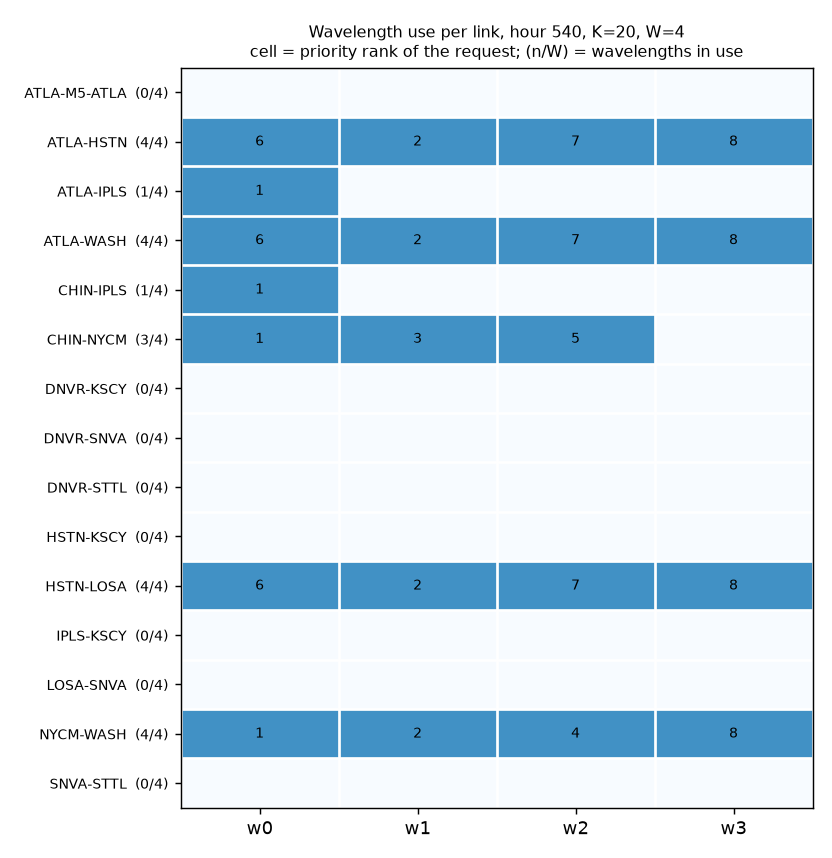
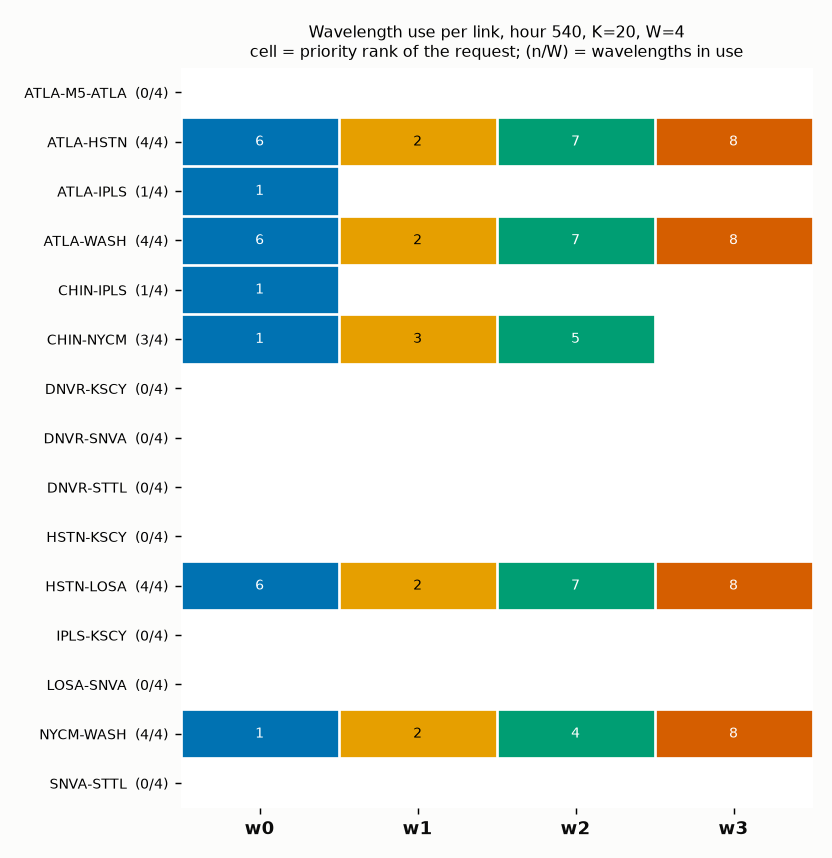
Address PR #9 review: readable wavelength lanes, Okabe-Ito palette, paired-difference row in plot (d), legend position, common_eval styling

Changed region(s): [[0.2188, 0.0909, 1.0, 0.9394], [0.2188, 0.9394, 0.9688, 0.9697], [0.2188, 0.0606, 0.9688, 0.0909]]

diff --git a/src/eval/plots.py b/src/eval/plots.py
@@ -7,12 +7,25 @@ import matplotlib
 matplotlib.use("Agg")
 import matplotlib.pyplot as plt
 
+from eval.common_eval import style, new_fig, INK
+
+# Okabe-Ito: colour-blind-safe, 8 distinguishable colours (fits W = 8); tab20 beyond that
+OKABE_ITO = ["#0072B2", "#E69F00", "#009E73", "#D55E00", "#CC79A7", "#56B4E9", "#F0E442", "#222222"]
+NN_COLOR, LH_COLOR = "#2a78d6", "#9b9a96"
+
 SHORT = lambda n: n.replace("ng", "").replace("M5", "-M5")      # ATLAng -> ATLA, ATLAM5 -> ATLA-M5
 
 
 def _colors(W: int):
-    cmap = plt.get_cmap("tab10" if W <= 10 else "tab20")
+    if W <= len(OKABE_ITO):
+        return OKABE_ITO[:W]
+    cmap = plt.get_cmap("tab20")
     return [cmap(i % cmap.N) for i in range(W)]
+
+
+def _text_color(hex_or_rgba) -> str:
+    r, g, b = matplotlib.colors.to_rgb(hex_or_rgba)
+    return "black" if 0.299 * r + 0.587 * g + 0.114 * b > 0.55 else "white"
 
 
 def _xy(nodes: dict, n: str, lat0: float = 38.0):
@@ -25,26 +38,29 @@ def plot_topology(result, nodes: dict, links: dict, path: str, title: str = "") 
     share a link have different wavelengths, so each wavelength gets its own small lateral offset."""
     W = result.W
     cols = _colors(W)
-    fig, ax = plt.subplots(figsize=(11, 6.2))
+    fig, ax = new_fig(figsize=(12, 6.6))
     for (u, v) in links:
         (x1, y1), (x2, y2) = _xy(nodes, u), _xy(nodes, v)
-        ax.plot([x1, x2], [y1, y2], color="#cccccc", lw=5, solid_capstyle="round", zorder=1)
-    delta = 0.20
+        ax.plot([x1, x2], [y1, y2], color="#dcdcd8", lw=2.5, solid_capstyle="round", zorder=1)
+    step = 0.17                      # lateral distance between neighbouring wavelengths (about 3 line widths)
     for lp in result.lightpaths:
-        off = (lp["wavelength"] - (W - 1) / 2) * delta / max(W - 1, 1) * 2
+        off = (lp["wavelength"] - (W - 1) / 2) * step
+        pts = []
         for a, b in zip(lp["route"], lp["route"][1:]):
-            (x1, y1), (x2, y2) = _xy(nodes, a), _xy(nodes, b)
-            dx, dy = x2 - x1, y2 - y1
-            norm = math.hypot(dx, dy) or 1.0
-            px, py = -dy / norm * off, dx / norm * off
-            ax.plot([x1 + px, x2 + px], [y1 + py, y2 + py], color=cols[lp["wavelength"]], lw=1.6, zorder=2,
-                    alpha=0.95)
+            u, v = sorted((a, b))                          # canonical link direction: a wavelength keeps the same
+            (ux, uy), (vx, vy) = _xy(nodes, u), _xy(nodes, v)   # side of a link whichever way the route travels
+            norm = math.hypot(vx - ux, vy - uy) or 1.0
+            ox, oy = -(vy - uy) / norm * off, (vx - ux) / norm * off
+            (ax_, ay_), (bx_, by_) = _xy(nodes, a), _xy(nodes, b)
+            pts += [(ax_ + ox, ay_ + oy), (bx_ + ox, by_ + oy)]   # consecutive segments are joined by a short jog
+        ax.plot([q[0] for q in pts], [q[1] for q in pts], color=cols[lp["wavelength"]], lw=1.3, zorder=2,
+                solid_joinstyle="round")
     for n in nodes:
         x, y = _xy(nodes, n)
         ax.scatter([x], [y], s=70, color="white", edgecolor="black", zorder=3)
         ax.annotate(SHORT(n), (x, y), textcoords="offset points", xytext=(6, 6), fontsize=8, zorder=4)
     handles = [plt.Line2D([0], [0], color=cols[w], lw=3, label=f"wavelength {w}") for w in range(W)]
-    ax.legend(handles=handles, loc="lower left", fontsize=8, ncol=2, title="served routes")
+    ax.legend(handles=handles, loc="lower left", fontsize=8, ncol=2, title="served routes", frameon=False)
     served, blocked = len(result.assignments), len(result.blocked)
     ax.set_title(title or f"Abilene lightpaths, hour {result.hour}: K={result.K}, W={W}, "
                           f"{served} served, {blocked} blocked ({result.method})")
@@ -64,41 +80,70 @@ def plot_heatmap(result, links: dict, path: str, title: str = "") -> str:
     rank = {r.id: i + 1 for i, r in enumerate(result.requests)}          # 1 = highest predicted demand
     grid = np.zeros((len(link_ids), W), dtype=int)
     for lp in result.lightpaths:
-        route = result.routes_by_request[lp["id"]]
-        # recover the links of the chosen route from the node sequence
+        # the links of the chosen route come from its node sequence
         for a, b in zip(lp["route"], lp["route"][1:]):
             i = row[tuple(sorted((a, b)))]
             assert grid[i, lp["wavelength"]] == 0, "wavelength clash on a link"
             grid[i, lp["wavelength"]] = rank[lp["id"]]
-    fig, ax = plt.subplots(figsize=(max(6.4, 1.6 + 0.9 * W), 0.9 + 0.38 * len(link_ids)))
-    ax.imshow(grid > 0, cmap="Blues", vmin=0, vmax=1.6, aspect="auto")
+    fig, ax = new_fig(figsize=(max(6.4, 1.6 + 0.9 * W), 0.9 + 0.38 * len(link_ids)))
+    cols = _colors(W)
+    rgb = np.ones((len(link_ids), W, 3))
     for i in range(grid.shape[0]):
         for j in range(W):
             if grid[i, j]:
-                ax.text(j, i, str(grid[i, j]), ha="center", va="center", fontsize=8)
+                rgb[i, j] = matplotlib.colors.to_rgb(cols[j])
+    ax.imshow(rgb, aspect="auto")                       # same colour per wavelength as the topology plot
+    for i in range(grid.shape[0]):
+        for j in range(W):
+            if grid[i, j]:
+                ax.text(j, i, str(grid[i, j]), ha="center", va="center", fontsize=8, color=_text_color(cols[j]))
     ax.set_xticks(range(W)); ax.set_xticklabels([f"w{j}" for j in range(W)])
+    for j, lab in enumerate(ax.get_xticklabels()):
+        lab.set_color(INK); lab.set_fontweight("bold")
     ax.set_yticks(range(len(link_ids)))
     ax.set_yticklabels([f"{SHORT(a)}-{SHORT(b)}  ({(grid[i] > 0).sum()}/{W})" for i, (a, b) in enumerate(link_ids)],
                        fontsize=8)
     ax.set_xticks(np.arange(-.5, W, 1), minor=True); ax.set_yticks(np.arange(-.5, len(link_ids), 1), minor=True)
     ax.grid(which="minor", color="white", lw=1.5); ax.tick_params(which="minor", length=0)
+    for s in ax.spines.values():
+        s.set_visible(False)
     ax.set_title(title or f"Wavelength use per link, hour {result.hour}, K={result.K}, W={W}\n"
                          "cell = priority rank of the request; (n/W) = wavelengths in use", fontsize=9)
     fig.tight_layout(); fig.savefig(path, dpi=130); plt.close(fig)
     return path
 
 
+METRICS = [("served_share", "served share"), ("blocking_rate", "blocking rate"), ("topk_hit_rate", "top-K hit rate")]
+
+
+def paired_differences(rows: list) -> dict:
+    """Per-hour paired difference NN minus last-hour for each metric: {metric: (mean, SE, n_hours)}.
+    With several NN seeds the per-hour difference is first averaged over the seeds; SE is over hours."""
+    out = {}
+    hours = sorted({r["hour"] for r in rows})
+    seeds = sorted({r["seed"] for r in rows if r["source"] == "nn"})
+    for key, _ in METRICS:
+        lh = {r["hour"]: r[key] for r in rows if r["source"] == "last_hour"}
+        nn = {(r["seed"], r["hour"]): r[key] for r in rows if r["source"] == "nn"}
+        d = np.array([np.mean([nn[(s, h)] for s in seeds]) - lh[h] for h in hours])
+        se = float(d.std(ddof=1) / math.sqrt(len(d))) if len(d) > 1 else 0.0
+        out[key] = (float(d.mean()), se, len(d))
+    return out
+
+
 def plot_nn_effect(data: dict, path: str) -> str:
-    """Bar chart NN vs last-hour baseline inside the planner, one panel per (K, W) setting in `data`
-    (written by eval.nn_effect). Error bars: std over seed means if >= 2 seeds, else standard error over hours."""
+    """Top row: NN vs last-hour inside the planner (one panel per (K, W) setting in `data`, written by
+    eval.nn_effect); error bars: std over seed means if >= 2 seeds, else standard error over hours.
+    Bottom row: paired per-hour difference NN minus last-hour with +-1 SE over hours (the more informative view)."""
     settings = data["settings"]
-    metrics = [("served_share", "served share"), ("blocking_rate", "blocking rate"), ("topk_hit_rate", "top-K hit rate")]
-    fig, axes = plt.subplots(1, len(settings), figsize=(4.6 * len(settings), 4), squeeze=False)
-    for ax, st in zip(axes[0], settings):
+    n = len(settings)
+    fig, axes = new_fig(2, n, figsize=(4.8 * n, 7.4), squeeze=False)
+    for col, st in enumerate(settings):
+        ax, ax2 = axes[0][col], axes[1][col]
         rows = [r for r in data["runs"] if r["K"] == st["K"] and r["W"] == st["W"]]
-        for k, (src, label, color) in enumerate((("nn", "NN forecast", "#2b6cb0"), ("last_hour", "last-hour", "#a0aec0"))):
+        for k, (src, label, color) in enumerate((("nn", "NN forecast", NN_COLOR), ("last_hour", "last-hour", LH_COLOR))):
             means, errs = [], []
-            for key, _ in metrics:
+            for key, _ in METRICS:
                 sel = [r for r in rows if r["source"] == src]
                 seeds = sorted({r["seed"] for r in sel})
                 per_seed = [np.mean([r[key] for r in sel if r["seed"] == s]) for s in seeds]
@@ -107,15 +152,27 @@ def plot_nn_effect(data: dict, path: str) -> str:
                     errs.append(float(np.std(per_seed, ddof=1)))
                 else:
                     vals = np.array([r[key] for r in sel]); errs.append(float(vals.std(ddof=1) / math.sqrt(len(vals))))
-            x = np.arange(len(metrics)) + (k - 0.5) * 0.36
-            ax.bar(x, means, 0.34, yerr=errs, capsize=3, label=label, color=color)
+            x = np.arange(len(METRICS)) + (k - 0.5) * 0.36
+            ax.bar(x, means, 0.34, yerr=errs, capsize=3, label=label, color=color, ecolor=INK)
             for xi, m in zip(x, means):
-                ax.text(xi, m + 0.01, f"{m:.2f}", ha="center", fontsize=7)
-        ax.set_xticks(range(len(metrics))); ax.set_xticklabels([m[1] for m in metrics], fontsize=8)
-        ax.set_ylim(0, 1.08); ax.set_title(f"K={st['K']}, W={st['W']}  ({st['n_hours']} test hours, {st['n_seeds']} NN seed(s))", fontsize=9)
-        ax.legend(fontsize=8, loc="lower right")
-    err_note = "error bars: std over NN seeds" if min(s["n_seeds"] for s in settings) >= 2 else "error bars: s.e. over test hours (1 seed)"
-    fig.suptitle(f"Planner with NN forecast vs last-hour forecast ({err_note})", fontsize=10)
+                ax.text(xi, m + 0.03, f"{m:.2f}", ha="center", fontsize=7, color=INK)
+        ax.set_xticks(range(len(METRICS))); ax.set_xticklabels([m[1] for m in METRICS], fontsize=8)
+        ax.set_ylim(0, 1.3)
+        style(ax, ylabel="fraction", title=f"K={st['K']}, W={st['W']} ({st['n_hours']} test hours, {st['n_seeds']} NN seed(s))")
+        ax.legend(fontsize=8, loc="upper center", ncol=2, frameon=False)
+        pd = paired_differences(rows)
+        vals = [pd[k][0] for k, _ in METRICS]; ses = [pd[k][1] for k, _ in METRICS]
+        ax2.bar(range(len(METRICS)), vals, 0.5, yerr=ses, capsize=4, color=NN_COLOR, ecolor=INK)
+        ax2.axhline(0, color=INK, lw=0.8)
+        for i, (v, s) in enumerate(zip(vals, ses)):
+            ax2.text(i, v + (s + 0.0006 if v >= 0 else -s - 0.0006), f"{v:+.4f}\n±{s:.4f}", ha="center",
+                     va="bottom" if v >= 0 else "top", fontsize=7, color=INK)
+        lim = max(0.012, 1.8 * max(abs(v) + s for v, s in zip(vals, ses)))
+        ax2.set_ylim(-lim, lim)
+        ax2.set_xticks(range(len(METRICS))); ax2.set_xticklabels([m[1] for m in METRICS], fontsize=8)
+        style(ax2, ylabel="NN minus last-hour", title="paired difference per hour (±1 s.e.)")
+    err_note = "top error bars: std over NN seeds" if min(s["n_seeds"] for s in settings) >= 2 else "top error bars: s.e. over test hours (1 seed)"
+    fig.suptitle(f"Planner with NN forecast vs last-hour forecast ({err_note})", fontsize=10, color=INK)
     fig.tight_layout(); fig.savefig(path, dpi=130); plt.close(fig)
     return path
 

diff --git a/src/tests/test_demo.py b/src/tests/test_demo.py
@@ -136,3 +136,20 @@ def test_nn_effect_harness_small_run():
     assert len(rows) == 4 and {r["source"] for r in rows} == {"nn", "last_hour"}
     for r in rows:
         assert 0 <= r["served_share"] <= 1 and 0 <= r["blocking_rate"] <= 1 and 0 <= r["topk_hit_rate"] <= 1
+
+
+def test_paired_differences_hand_computed():
+    rows = []
+    for h, (nn, lh) in enumerate([(0.9, 0.8), (0.7, 0.8), (0.8, 0.6)]):          # per-hour served share
+        rows.append({"source": "last_hour", "seed": -1, "hour": h, "served_share": lh, "blocking_rate": 0.0, "topk_hit_rate": 1.0})
+        for s in (0, 1):
+            rows.append({"source": "nn", "seed": s, "hour": h, "served_share": nn, "blocking_rate": 0.0, "topk_hit_rate": 1.0})
+    pd = plots.paired_differences(rows)
+    diffs = np.array([0.1, -0.1, 0.2])
+    mean, se, n = pd["served_share"]
+    assert n == 3 and mean == pytest.approx(diffs.mean()) and se == pytest.approx(diffs.std(ddof=1) / np.sqrt(3))
+    assert pd["blocking_rate"] == (0.0, 0.0, 3)
+
+
+def test_wavelength_palette_has_distinct_colours_up_to_eight():
+    assert len(set(plots._colors(8))) == 8 and len(set(plots._colors(12))) == 12

diff --git a/src/eval/nn_effect.py b/src/eval/nn_effect.py
@@ -39,6 +39,10 @@ def main():
             sel = [r for r in rows if r["source"] == src]
             print(f"K={a.K} W={W} {src:9s} served {np.mean([r['served_share'] for r in sel]):.3f} "
                   f"blocking {np.mean([r['blocking_rate'] for r in sel]):.3f} hit {np.mean([r['topk_hit_rate'] for r in sel]):.3f}")
+        from eval.plots import paired_differences
+        pd_ = paired_differences(rows)
+        print("  paired NN - last hour (mean +- s.e. over hours): " +
+              ", ".join(f"{k} {m:+.4f} +- {s:.4f}" for k, (m, s, _) in pd_.items()))
         print(f"  ({time.time() - t0:.0f}s)")
     os.makedirs(os.path.dirname(a.out) or ".", exist_ok=True)
     json.dump(out, open(a.out, "w"))

diff --git a/README.md b/README.md
@@ -74,9 +74,9 @@ python run_demo.py --method bt|fc|fc+ac3 --routes all|chosen|none --hour H --K K
 python run_demo.py --trace [--src X --dst Y]          # UCS vs A* expansion trace (needs Member B's search.trace)
 python -m eval.nn_effect --K 20 --W 4 8 --seeds 0     # NN vs last-hour inside the planner (data for figure d), ~2 min
 ```
-It prints: the predicted top-K list (with the actual demand of that hour for comparison only), the feedback-loop log, the routes, the assignment table, the blocked requests with reasons and a summary line. Figures (`src/eval/plots.py`): (a) topology at real coordinates with every served route coloured by wavelength, (b) link x wavelength heatmap (cell = priority rank of the request using it; a clash would fail an assertion), (d) NN vs last-hour bar chart. Plot (c), CSP domain sizes, and the trace are Member B's part (issue #7). Cached outputs for the live demo (plan 11.2) are in `outputs/demo_cache/` (text and figures for hour 540, K=20, W=8 and W=4, and NN off).
+It prints: the predicted top-K list (with the actual demand of that hour for comparison only), the feedback-loop log, the routes, the assignment table, the blocked requests with reasons and a summary line. Figures (`src/eval/plots.py`): (a) topology at real coordinates with every served route coloured by wavelength (colour-blind-safe Okabe-Ito palette, one lateral lane per wavelength so shared links stay readable), (b) link x wavelength heatmap (cell = priority rank of the request using it; a clash would fail an assertion), (d) NN vs last-hour bar chart with a paired-difference row. Plot (c), CSP domain sizes, and the trace are Member B's part (issue #7). Cached outputs for the live demo (plan 11.2) are in `outputs/demo_cache/` (text and figures for hour 540, K=20, W=8 and W=4, and NN off).
 
-NN on vs off inside the planner (test week, K=20, 1 NN seed, 168 hours; `outputs/nn_effect.json`): W=4 served share 0.598 (NN) vs 0.598 (last hour), blocking rate 0.587 vs 0.581; W=8 served share 0.946 vs 0.943, blocking 0.000 for both. As at forecast level, the NN gives no practical gain over last-hour. Experiment 3 repeats this with 5 seeds.
+NN on vs off inside the planner (test week, K=20, 1 NN seed, 168 hours; `outputs/nn_effect.json`): W=4 served share 0.598 (NN) vs 0.598 (last hour), blocking rate 0.587 vs 0.581; W=8 served share 0.946 vs 0.943, blocking 0.000 for both. Paired per-hour differences NN minus last-hour (+- s.e. over the 168 hours; figure d, bottom row): W=4 served share +0.0002 +- 0.0041, blocking rate +0.0060 +- 0.0028 (the NN blocks slightly *more*, about 2 s.e.), top-K hit +0.0030 +- 0.0028; W=8 served share +0.0034 +- 0.0022, top-K hit +0.0030 +- 0.0028. So the NN gives no gain over last-hour, and at W=4 its blocking is slightly worse. Experiment 3 repeats this with 5 seeds and reports the paired differences.
 
 ## Layout
 `config.yaml` (all parameters) | `src/{data,nn,search,csp,integration,eval}/` | `src/common.py` (interface contract) | `src/tests/` | `data/{raw,processed}/` | `outputs/` | `report/` | `docs/`
